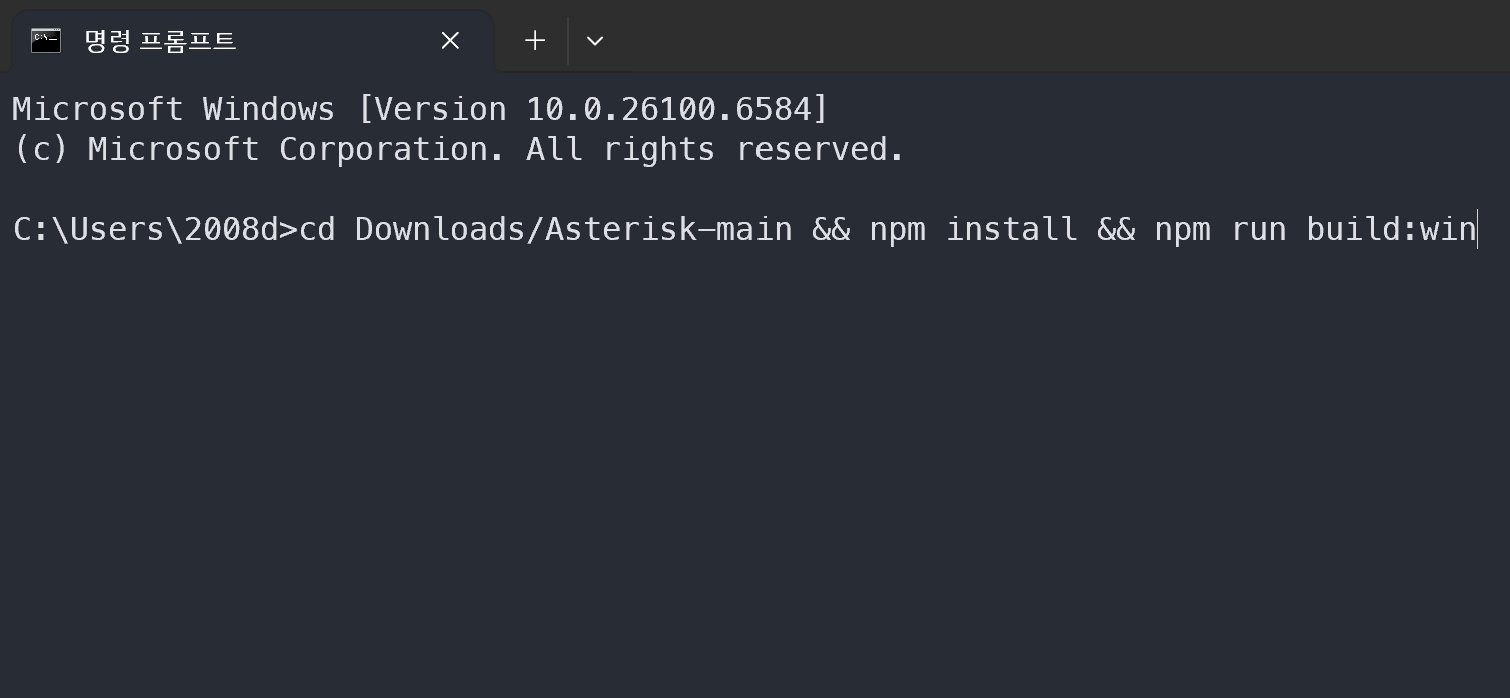
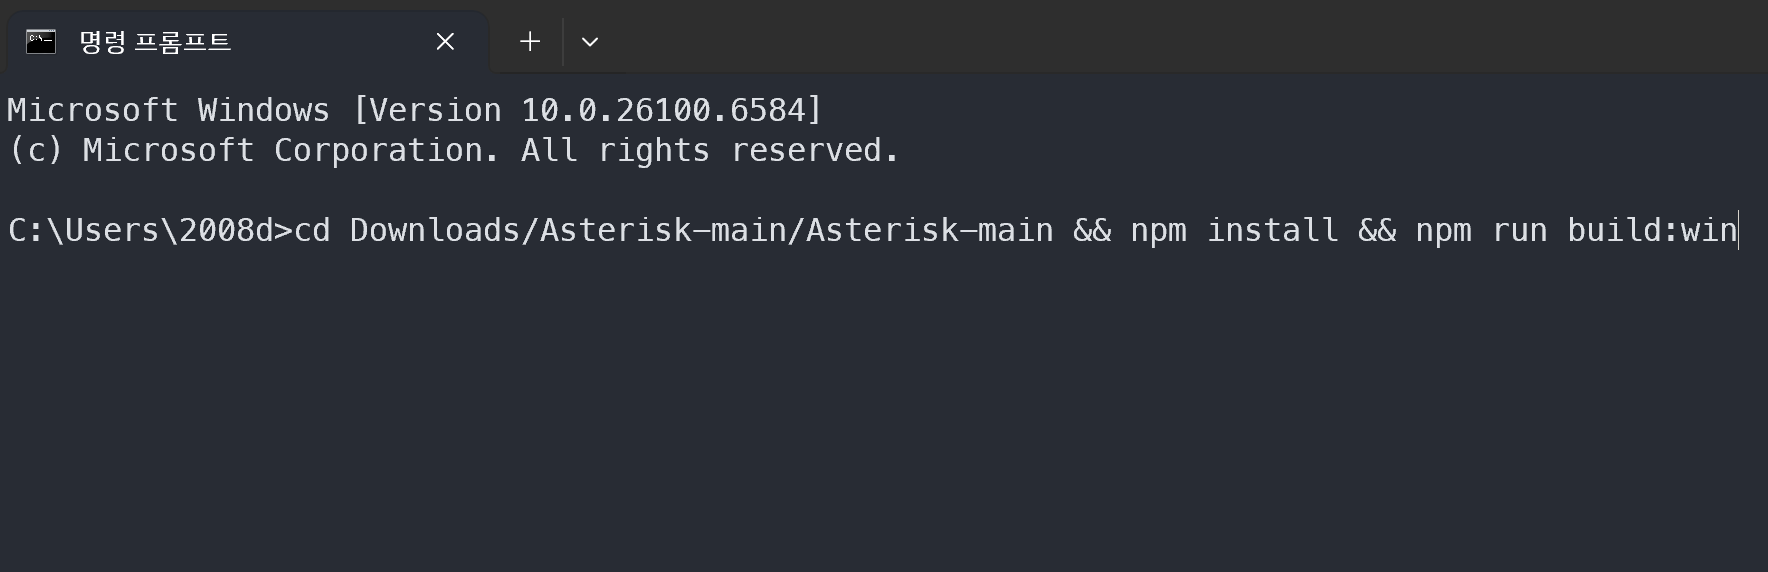
fixed path

diff --git a/README.md b/README.md
@@ -33,8 +33,10 @@
 2. 다음 명령어를 입력하고 `enter` 키를 칩니다.
 
 ```
-cd Downloads/Asterisk-main && npm install && npm run build:win
+cd Downloads/Asterisk-main/Asterisk-main && npm install && npm run build:win
 ```
+
+![Cmd command](assets/Cmd_command.png)
 
 ## 4. 바탕화면을 확인합니다.
 
